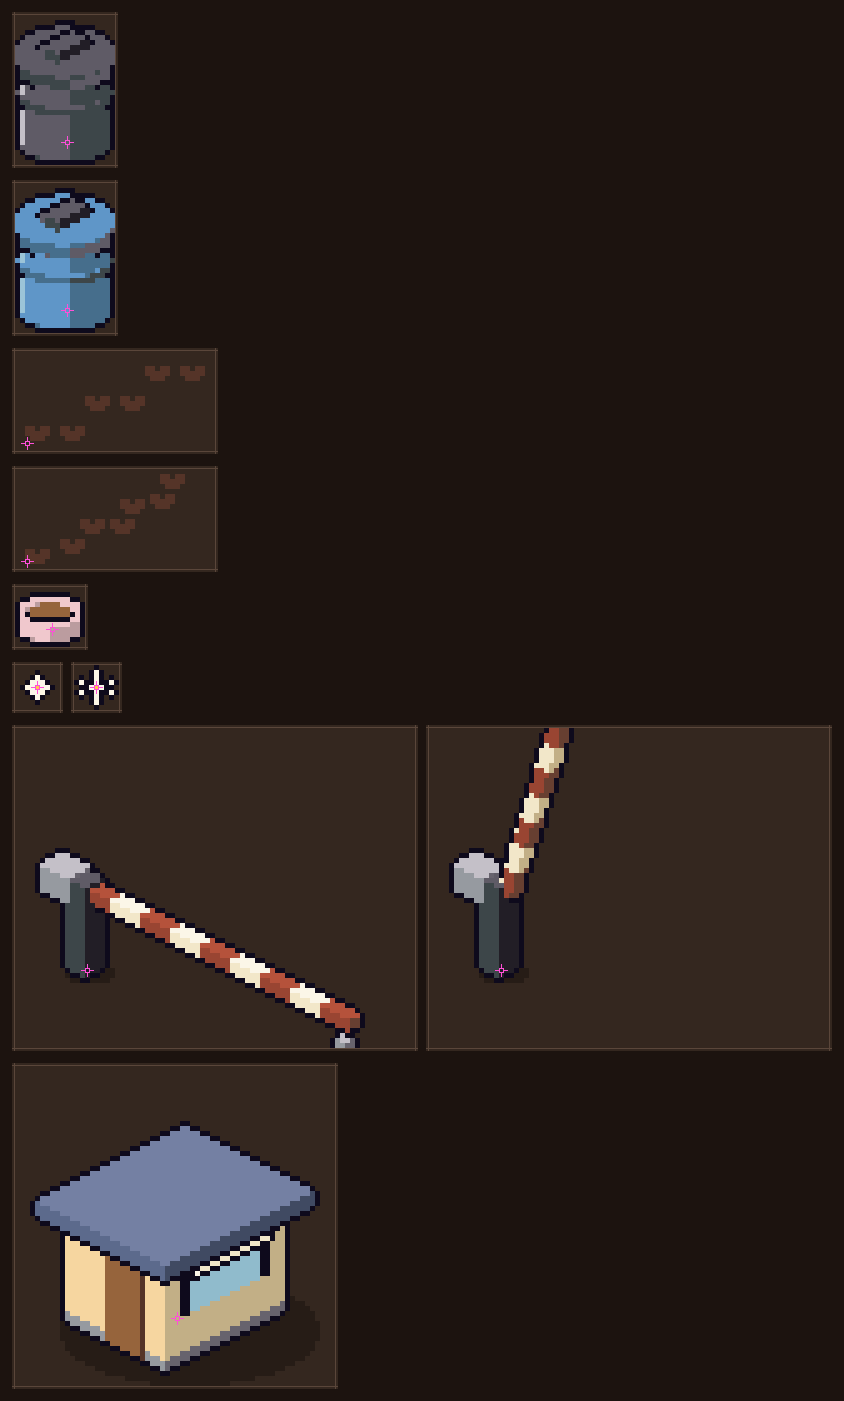
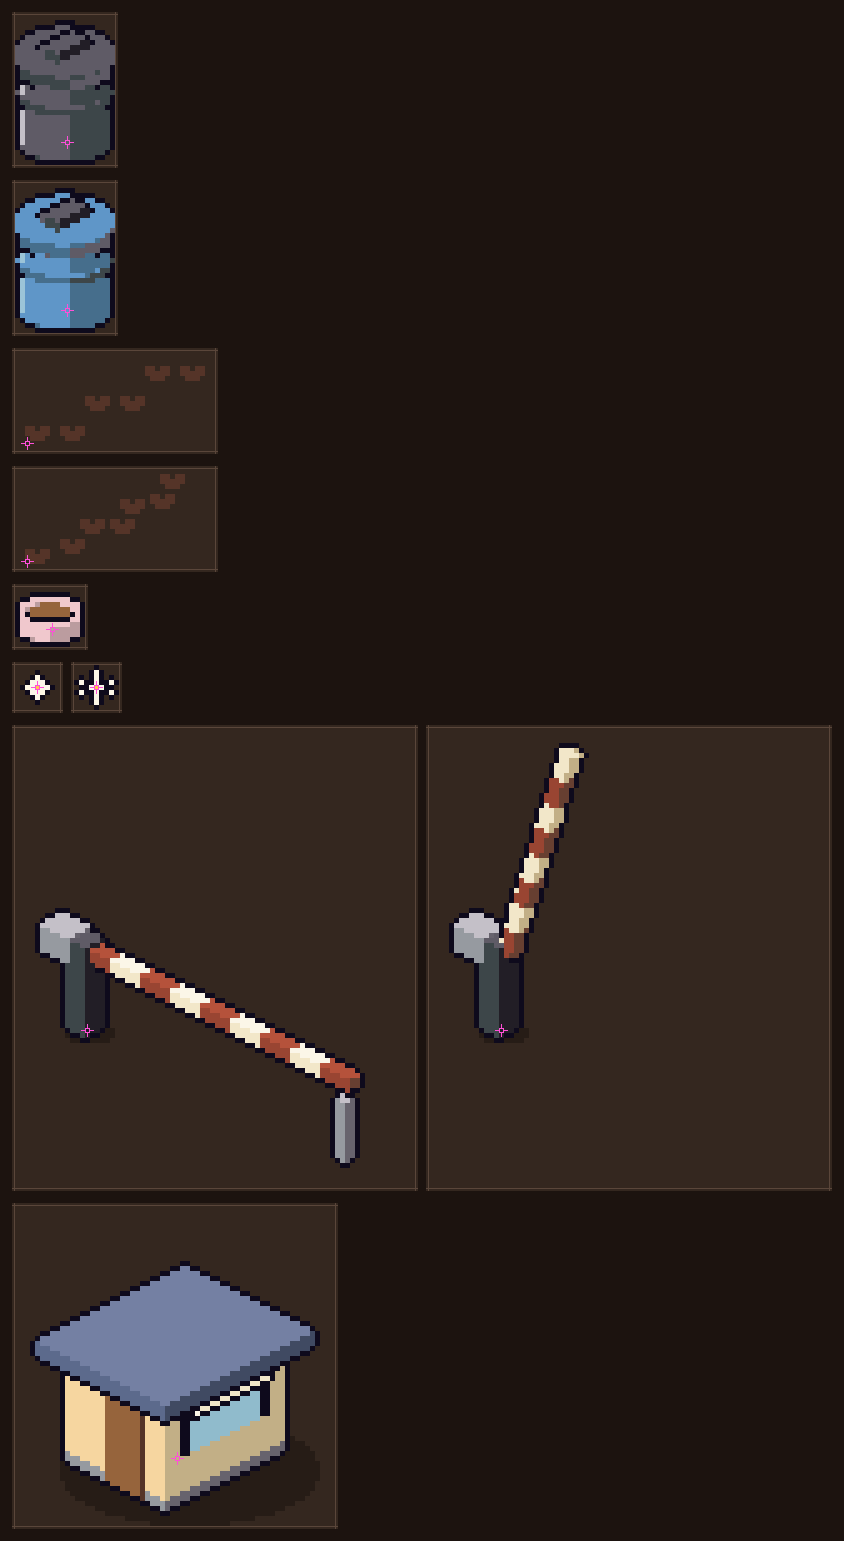
art: perbesar sel portal satpam ke 80x92 pijak (14, 60) (G-1a)
Sel 80x64 memotong palang terbuka di tepi atas dan kaki penyangga tertutup di
tepi bawah. Bentuk 3D tidak berubah; kedua frame berbagi sel dan pijak baru.
Mock docs, uji aset, dan tes_export ikut diperbarui.

Claude-Session: https://claude.ai/code/session_01PhCE8fHhKZTiUsZFKFJHt1

diff --git a/tools/tests_cek/uji_aset_pasang_gelombang1.py b/tools/tests_cek/uji_aset_pasang_gelombang1.py
@@ -63,7 +63,7 @@ PASANG_SPRITE_5B = {
     'houses/perumahan': [],   # run fase5d-sisi-dekat (P-1): lima tembok tidak lagi dipasang
     'props': ['prop_tong_sampah_logam'],
 }
-# Run garis-finish-portal (G-1): HANYA portal satpam (sel 80x64, dua frame, pijak (14, 48)); pos satpam tetap tidak dipasang.
+# Run garis-finish-portal (G-1, G-1a): HANYA portal satpam (sel 80x92, dua frame, pijak (14, 60); sel lama 80x64 memotong palang terbuka dan kaki penyangga); pos satpam tetap tidak dipasang.
 PASANG_SPRITE_GARIS_FINISH = {
     'props': ['prop_portal_satpam'],
 }
@@ -296,11 +296,24 @@ def main():
         if n != 'prop_koran_kotak_surat':
             periksa(0 <= ax < cw and 0 <= ay < ch, 'JSON %s: titik pijak di dalam sel' % n)
         periksa(lebar < 2048 and tinggi < 2048, 'ukuran < 2048: %s' % n)
-    # Portal satpam (G-1): dua frame (0 tertutup, 1 terbuka), sel 80x64, pijak (14, 48) = kaki tiang; ditulis literal, bukan dari skrip.
+    # Portal satpam (G-1a): dua frame (0 tertutup, 1 terbuka), sel 80x92, pijak (14, 60) = kaki tiang; ditulis literal, bukan dari skrip.
     portal = json.loads(baca(os.path.join(SPRITES, 'props', 'prop_portal_satpam.json')))
-    periksa(portal['cell'] == [80, 64] and portal['frames'] == 2 and portal['ground_anchor'] == [14, 48],
-            'JSON portal: sel 80x64, dua frame, pijak (14, 48): %s %s %s' % (portal['cell'], portal['frames'], portal['ground_anchor']))
-    periksa(ukuran(os.path.join(SPRITES, 'props', 'prop_portal_satpam.png')) == (160, 64), 'PNG portal 160x64 (dua sel 80x64 berjajar)')
+    periksa(portal['cell'] == [80, 92] and portal['frames'] == 2 and portal['ground_anchor'] == [14, 60],
+            'JSON portal: sel 80x92, dua frame, pijak (14, 60): %s %s %s' % (portal['cell'], portal['frames'], portal['ground_anchor']))
+    periksa(ukuran(os.path.join(SPRITES, 'props', 'prop_portal_satpam.png')) == (160, 92), 'PNG portal 160x92 (dua sel 80x92 berjajar)')
+    # Tidak ada bagian yang terpotong (A-1, A-2): di tiap frame baris dan kolom tepi sel transparan penuh (margin >= 1 px di semua sisi),
+    # dan bbox tiap frame sama dengan angka terukur (tertutup x 4..69 y 36..87, terbuka x 4..31 y 3..62).
+    import numpy as np
+    from PIL import Image
+    with Image.open(os.path.join(SPRITES, 'props', 'prop_portal_satpam.png')) as g:
+        a = np.array(g.convert('RGBA'))
+    for k, (bx, by) in enumerate([((4, 69), (36, 87)), ((4, 31), (3, 62))]):
+        f = a[:, k * 80:(k + 1) * 80, 3] > 0
+        ys, xs = np.nonzero(f)
+        periksa((int(xs.min()), int(xs.max())) == bx and (int(ys.min()), int(ys.max())) == by,
+                'portal frame %d: bbox x %s y %s' % (k, (int(xs.min()), int(xs.max())), (int(ys.min()), int(ys.max()))))
+        periksa(not f[0].any() and not f[-1].any() and not f[:, 0].any() and not f[:, -1].any(), 'portal frame %d: tepi sel transparan penuh (tidak terpotong)' % k)
+        periksa(int(ys.min()) >= 1 and int(xs.min()) >= 1 and 91 - int(ys.max()) >= 1 and 79 - int(xs.max()) >= 1, 'portal frame %d: margin >= 1 px di semua sisi' % k)
     # Total sprite keluaran render.py --salin: 6 koran + 7 VFX/kilau + tong sampah logam + portal satpam = 15 (13 lama tidak berubah).
     total = sum(len(ns) for ns in list(PASANG_SPRITE.values()) + list(PASANG_SPRITE_5B.values()) + list(PASANG_SPRITE_GARIS_FINISH.values()))
     periksa(total == 15, 'render.py --salin memasang tepat 15 sprite (13 lama + tong sampah + portal): %d' % total)

diff --git a/tools/env_art/gelombang1/properti.py b/tools/env_art/gelombang1/properti.py
@@ -116,9 +116,16 @@ def _box_solid(c, half, pal, faces=None, pattern=None):
     return Solid(f, sh)
 
 
+# Sel dan pijak portal (run garis-finish-portal, G-1a): dua frame berbagi sel dan pijak yang sama. Sel lama 80x64 pijak (14, 48) memotong
+# palang terbuka di tepi atas (ujung z = 62) dan kaki penyangga tertutup di tepi bawah (kaki di 26 px di bawah pijak). Terukur dari render
+# (relatif pijak): kiri -10, kanan +55, atas -57 (terbuka), bawah +27 (tertutup); sel 80x92 pijak (14, 60) menyisakan margin transparan >= 2 px.
+PORTAL_SEL = (80, 92)
+PORTAL_PIJAK = (14, 60)
+
+
 def portal_satpam(terbuka=False):
     """Portal palang: tiang + pemberat di sisi seberang, palang belang
-    bata/krem melintang jalan (sepanjang x, 52 unit). Sel 80x56, pijak (14,40)."""
+    bata/krem melintang jalan (sepanjang x, 52 unit). Sel PORTAL_SEL 80x92, pijak PORTAL_PIJAK (14, 60) = kaki tiang."""
     lg = P['logamg']; br = P['bata']
     solids = []
     solids.append(_box_solid((0, 0, 9), (2, 2, 9), [lg[0], lg[1], lg[2]]))       # tiang
@@ -147,8 +154,8 @@ def portal_satpam(terbuka=False):
             stripes(col, x, y, z, np.where(fc == 0, 1, fc), u)
             return col
         solids.append(Solid(sdf_up, shu))
-    img = render(80, 64, 14, 48, solids, zmin=-1, zmax=70, step=0.15, inner=4.0)
-    return with_shadow(img, 14, 48, 10, 5)
+    img = render(PORTAL_SEL[0], PORTAL_SEL[1], PORTAL_PIJAK[0], PORTAL_PIJAK[1], solids, zmin=-1, zmax=70, step=0.15, inner=4.0)
+    return with_shadow(img, PORTAL_PIJAK[0], PORTAL_PIJAK[1], 10, 5)
 
 
 def pos_satpam():

diff --git a/tools/env_art/gelombang1/render.py b/tools/env_art/gelombang1/render.py
@@ -105,8 +105,8 @@ add('properti', 'mission_mangkuk_kucing', [PR.mangkuk_kucing()], 0, (7, 8),
     'Mangkuk pink berisi pelet.')
 add('properti', 'mission_kilau', PR.kilau_misi(), 4, (4, 4),
     'Loop 2 frame. Pijak = pusat; dipasang 12-16 px di atas benda petunjuk.')
-add('properti', 'prop_portal_satpam', [PR.portal_satpam(False), PR.portal_satpam(True)], 0, (14, 48),
-    'M3. Frame 0 tertutup, frame 1 terbuka. Pijak = kaki tiang. Palang 52 unit melintang jalan.')
+add('properti', 'prop_portal_satpam', [PR.portal_satpam(False), PR.portal_satpam(True)], 0, PR.PORTAL_PIJAK,
+    'M3. Frame 0 tertutup, frame 1 terbuka; sel 80x92, pijak (14, 60) = kaki tiang (G-1a: sel diperbesar supaya tidak ada bagian terpotong). Palang 52 unit melintang jalan.')
 add('properti', 'prop_pos_satpam', [PR.pos_satpam()], 0, (32, 50),
     'M3. Pos 20x24 unit, jendela menghadap jalan samping, pintu di sisi kiri bawah.')
 

diff --git a/tools/env_art/gelombang1/komposisi.py b/tools/env_art/gelombang1/komposisi.py
@@ -132,7 +132,7 @@ def build(sore=False, minimal=False):
         put(V.percikan()[2], 16, 48, 12, 12, layer=3)
 
         # gerbang: portal terbuka di halaman seberang, pos satpam di sisi dekat sesudah tembok
-        put(PR.portal_satpam(terbuka=True), -100, 206, 14, 48)
+        put(PR.portal_satpam(terbuka=True), -100, 206, *PR.PORTAL_PIJAK)
         put(PR.pos_satpam(), 118, 210, 32, 50)
 
     urut = ([o for o in objs if o[0] == 0] + sorted([o for o in objs if o[0] == 1], key=lambda o: o[1])

diff --git a/tools/env_art/README.md b/tools/env_art/README.md
@@ -54,7 +54,7 @@ python3 tools/env_art/lampu_pohon.py             # 7 lampu (mati/nyala), 11 poho
 ```
 python3 tools/env_art/ubin_perumahan.py --salin           # 13 ubin yang dipasang + JSON terpangkas
 python3 tools/env_art/gelombang1/render.py --salin        # 13 sprite 5A + tong sampah logam (lima tembok 5B tidak lagi disalin sejak run 5D; tetap dirender ke build/ dan papan)
-# run garis-finish-portal (G-1): --salin juga memasang prop_portal_satpam (sel 80x64, dua frame, pijak (14, 48)) ke assets/sprites/props/; total 15 sprite. prop_pos_satpam TIDAK dipasang
+# run garis-finish-portal (G-1): --salin juga memasang prop_portal_satpam (sel 80x92, dua frame, pijak (14, 60); G-1a: sel diperbesar dari 80x64 supaya palang terbuka dan kaki penyangga tidak terpotong) ke assets/sprites/props/; total 15 sprite. prop_pos_satpam TIDAK dipasang
 python3 tools/env_art/lampu_pohon.py --salin              # tiga pohon + dua lampu mati ke assets/sprites/props/ (lalu godot --headless --import)
 python3 tools/tests_cek/uji_aset_pasang_5b.py             # isi assets/ = keluaran ketiga skrip, impor Lossless, susunan ubin khusus
 python3 tools/tests_cek/uji_aset_pasang_5b.py --perbarui-referensi   # tulis ulang tests/data/ubin_potongan_5b.png dari assets/
